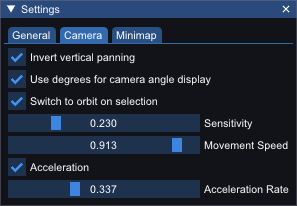
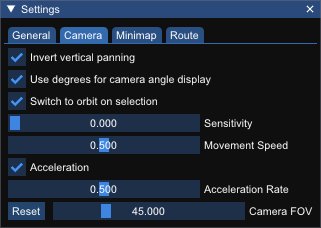
Update documentation

diff --git a/README.md b/README.md
@@ -117,6 +117,7 @@ Highlight           | Highlight the currently selected room
 Triggers            | Toggle trigger visibility
 Geometry            | Toggle geometry mode
 Water               | Toggle water in water rooms
+Rooms               | Toggle rendering of room geometry
 Depth               | Toggle depth mode. This will show the currently selected depth of neighbours of the current room.
 Depth Selector      | Choose the depth of neighbours to show
 Wireframe           | Enable wireframe rendering mode
@@ -267,7 +268,9 @@ Z|Z position of the camera in level space|
 
 ## Context Menu
 
-![Context Menu](doc/context_menu.png)
+Normal | Copy | Triggered By
+---|---
+![Context Menu](doc/context_menu.png) | ![Context Menu](doc/context_menu_copy.png) | ![Context Menu](doc/context_menu_triggered_by.png) 
 
 The context menu is opened by right clicking in the 3D view.
 
@@ -278,6 +281,8 @@ Add Mid Waypoint|Add a new route waypoint at the centre of the square that was c
 Remove Waypoint|Remove the clicked waypoint from the route. This is only available when a waypoint was clicked.
 Orbit Here|Switch the camera to orbit mode and orbit around the position that was right clicked when the context menu was opened.
 Hide|Hide the clicked entity or trigger. This can be unhidden from the view menu or the items or triggers window. This is only available if an item or trigger was clicked.
+Copy|Copy the position of the click or the entity number to the clipboard.
+Triggered By|Shows the triggers that trigger an entity. Clicking an entry will select the trigger.
 
 ## Menus
 
@@ -523,9 +528,11 @@ Shows the list of waypoints in the current route and allows them to be edited an
 
 ![Route Window](doc/route.png)
 
-## Route Colour
+## Settings
 
-Clicking on the coloured square will show a colour picker dialog. The colour you choose will be used for the waypoints in the 3D view.
+![Route Window Settings](doc/route_settings.png)
+
+Clicking on the settings button will allow you to change route and waypoint colours. Clicking on each coloured square will show a colour picker dialog. The colours you choose will be used in the 3D view.
 
 ## Import
 
@@ -662,8 +669,9 @@ Different comparison operators are available depending on the data type of the s
 | Between   | &cross; | &check; | &cross; | 2 |
 | Between inclusive   | &cross; | &check; | &cross; | 2 |
 | Is Present*  | &check; | &check; | &check; | 0 |
+| Is not Present | &check; | &check; | &check; | 0 |
 
-If the value is a multi value property such as `Triggered By` on an `Item` then an additional operation `is present` is available. This will return true if there are any values for that property on the item being tested.
+If the value is a multi value property such as `Triggered By` on an `Item` then two additional operations: `is present` and `is not present` are available. This will return whether there are any values for that property on the item being tested.
 
 ## Combining Filters
 
